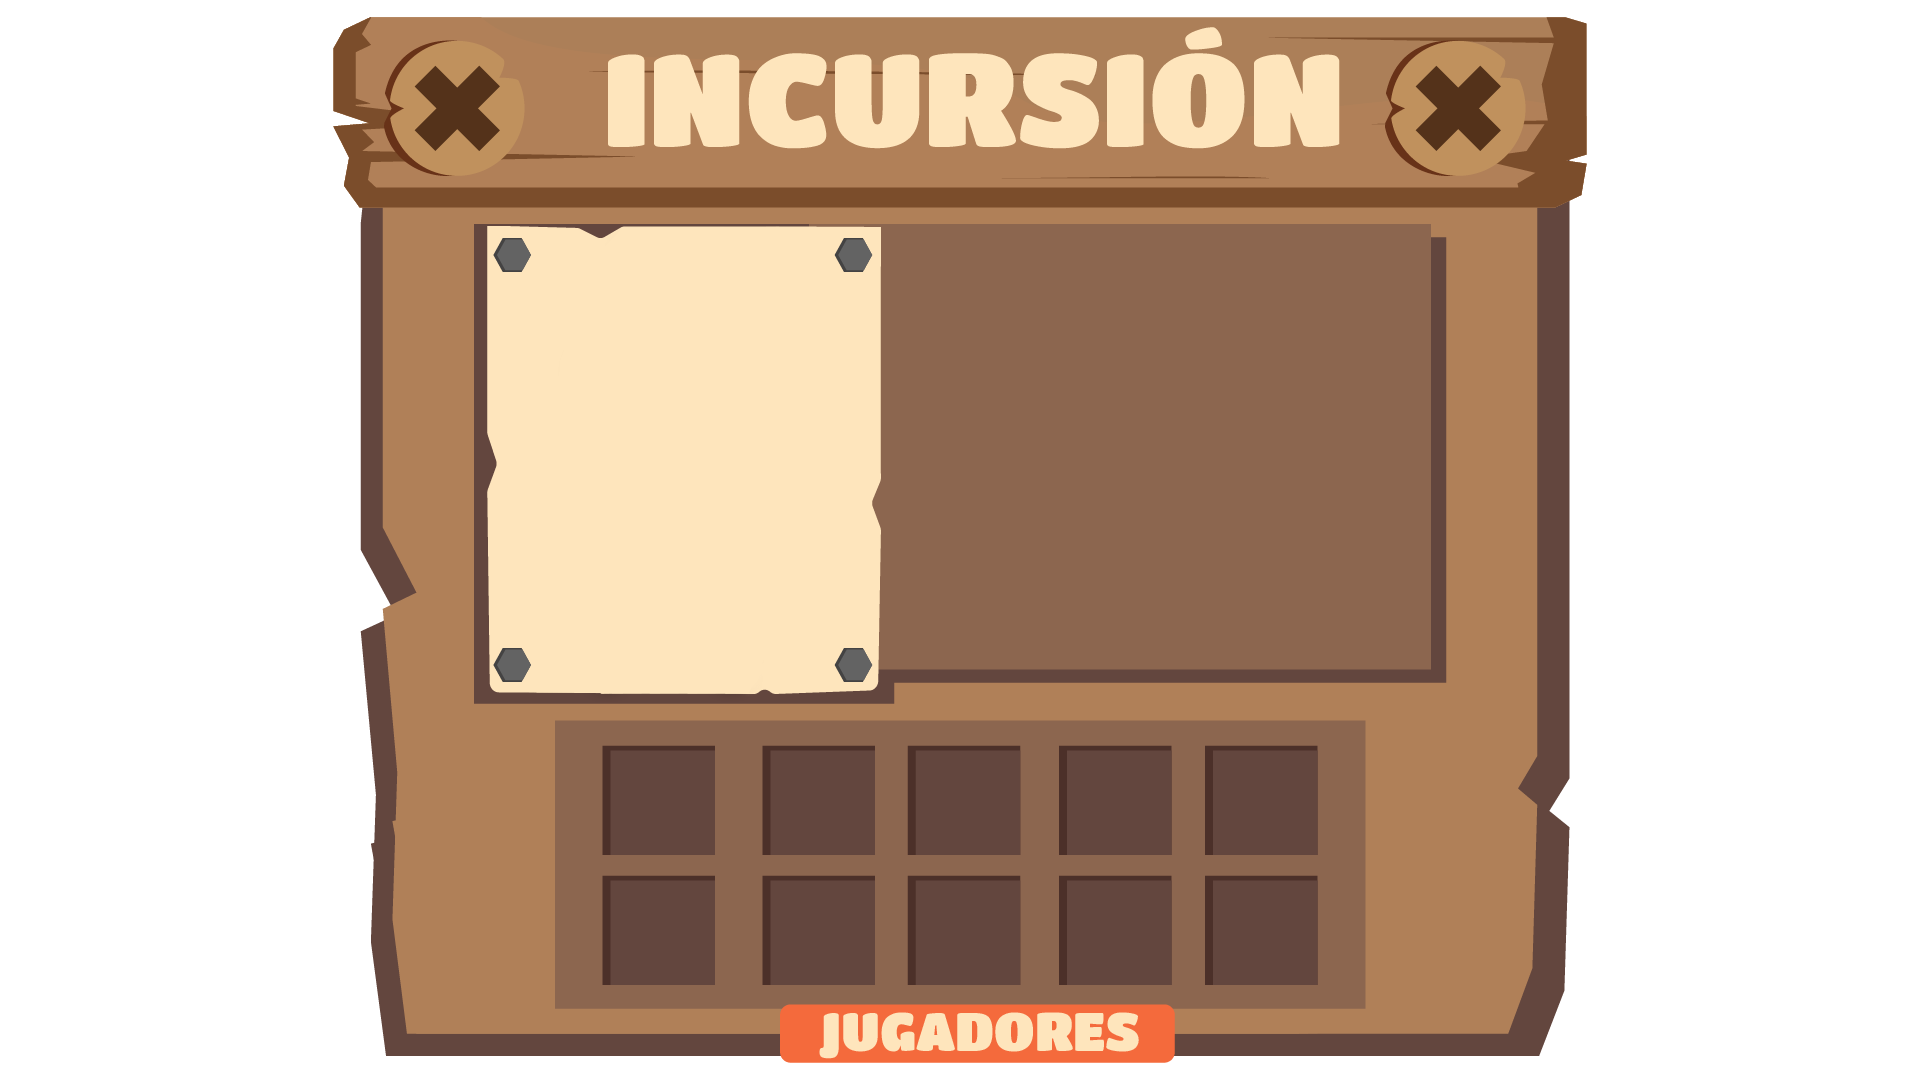
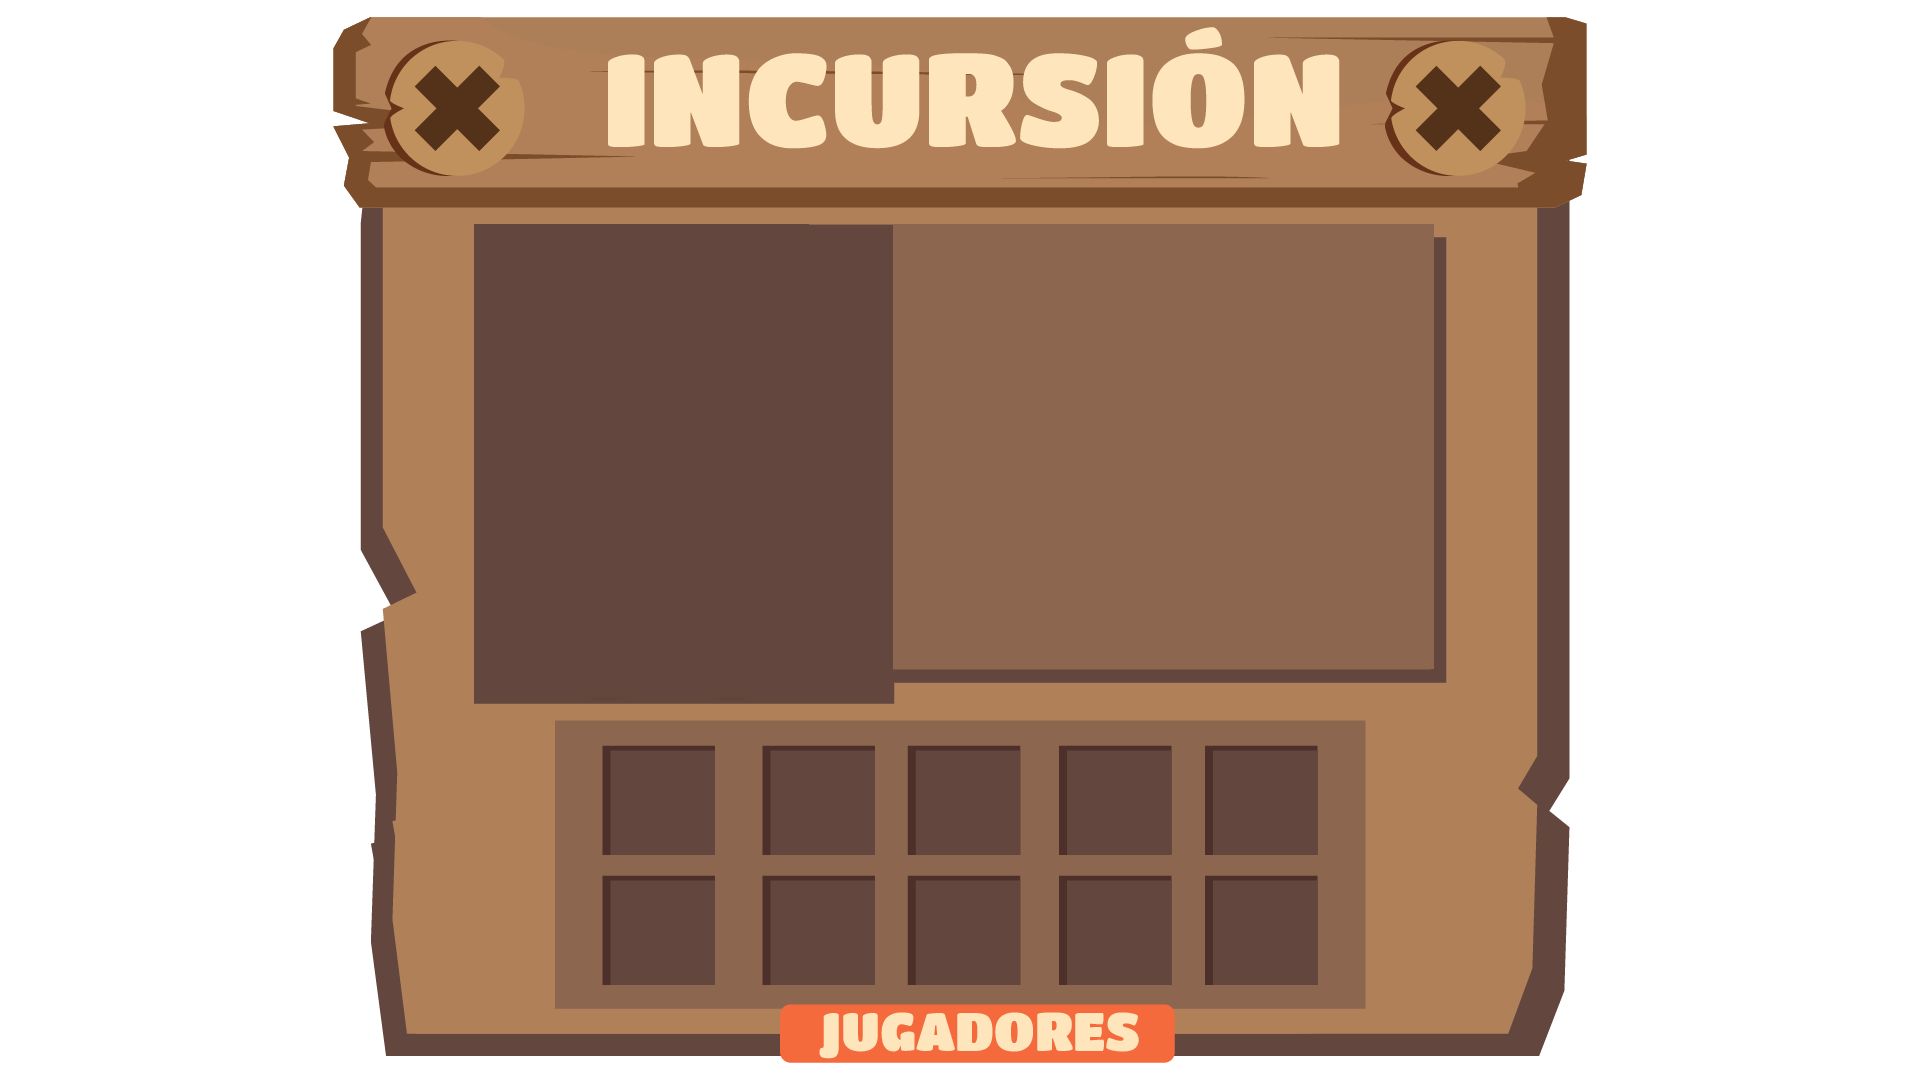
Display player's info in incursion

Changed region(s): [[0.25, 0.1833, 0.4688, 0.6417]]

diff --git a/Scenes/ColiseoScene.js b/Scenes/ColiseoScene.js
@@ -34,6 +34,7 @@ export class Coliseo extends Phaser.Scene{
         this.load.image("QmbMS3P3gn2yivKDFvHSxYjVZEZrBdxyZtnnnJ62tVuSVk", "../src/images/Burritos/Burrito Agua.png");
         this.textures.remove("cards")
         this.load.spritesheet("cards", "../src/images/Cards/cards.png", {frameWidth: 1080, frameHeight: 1080});
+        this.load.image("burrito_muerto", "../src/images/Establo/gravestone.png");
         this.load.image("left_arrow", "../src/images/Establo/left_arrow.png");
         this.load.image("right_arrow", "../src/images/Establo/right_arrow.png");
 
@@ -44,38 +45,49 @@ export class Coliseo extends Phaser.Scene{
 
     async create(){
         this.incursion = await Near.GetActiveIncursion();
+        this.add.image(this.game.config.width / 2, this.game.config.height / 2, `coliseo_${this.incursion.status}`);
         let isIncursion = this.incursion.status == "WaitingPlayers";
-        console.log(this.incursion)
-        this.add.image(this.game.config.width / 2, this.game.config.height / 2, `coliseo_${this.incursion.status}`)
-        new Helpers.Button(this.game.config.width / 2, this.game.config.height / 2 + 400, 1, "buttonContainer", isIncursion ? "Unirse a la incursion" : "Iniciar Incursion", this, isIncursion ? this.JoinIncursion : this.ConfirmIncursion, null, {fontSize: 40, fontFamily: "BangersRegular"})
+        console.log(this.incursion);
         new Helpers.Button(this.sys.game.scale.gameSize.width / 2 + 750,  100, 0.5, "buttonContainer", "Pradera", this, this.BackToPradera, null, {fontSize: 30, fontFamily: "BangersRegular"});
-        //let result = await Near.WithdrawBurritoOwner();
+        new Helpers.Button(this.sys.game.scale.gameSize.width / 2 - 750,  100, 0.5, "buttonContainer", "Eliminar incursion", this, 
+        async()=>{ 
+            this.loadingScreen = new Helpers.LoadingScreen(this);
+            await Near.WithdrawBurritoOwner(); 
+            await Near.DeleteAllIncursions(); 
+            await this.loadingScreen.OnComplete();
+            location.reload();
+        }
+        , null, {fontSize: 30, fontFamily: "BangersRegular"});
+        
+        if(!isIncursion)
+            new Helpers.Button(this.game.config.width / 2, this.game.config.height / 2 + 400, 1, "buttonContainer", "Iniciar Incursion", this, this.ConfirmIncursion, null, {fontSize: 40, fontFamily: "BangersRegular"})
+        else
+            this.CreatePanelIncursion();
+        //await Near.WithdrawBurritoOwner();
         await this.loadingScreen.OnComplete();
-
-        this.CreatePanelIncursion();
     }
-    BackToPradera = () =>{
-        this.scene.start("Pradera");
+    BackToPradera = () =>{ 
+        clearInterval(this.counterInterval); 
+        this.scene.start("Pradera"); 
     }
-    
     ConfirmIncursion = async() => {
         await Helpers.Alert.Fire(this, this.game.config.width / 2, this.game.config.height / 2, "Iniciar nueva incursion", "Una incursion en un evento donde los jugadores pueden unirse para combatir a un burrito de mayor poder y ganar recompensas.\n¿Quieres iniciar una nueva incursion?", "Iniciar Incursion", "Cancelar")
         .then(async (result) =>{ 
             if(result){
-                let incursion = await Near.CreateIncursion();
-                console.log(incursion);
-            } 
+                this.loadingScreen = new Helpers.LoadingScreen(this);
+                await Near.CreateIncursion();
+                await this.loadingScreen.OnComplete();
+                location.reload();
+            }
         });
     }
-    JoinIncursion = async()=>{
+    /*JoinIncursion = async()=>{
         await Helpers.Alert.Fire(this, this.game.config.width / 2, this.game.config.height / 2, "Unirte a la incursion", "Una incursion en un evento donde los jugadores pueden unirse para combatir a un burrito de mayor poder y ganar recompensas.\n¿Quieres unirte a la incursion?", "Unirse", "Cancelar")
         .then(async (result) =>{ 
-            if(result){
-                //let incursion = await Near.DeleteAllIncursions();
+            if(result)
                 this.CreatePanelIncursion();
-            } 
         });
-    }
+    }*/
     async CreatePanel(){
         this.totalTokens = await Near.NFTSupplyForOwner();
         this.panelContainer = this.add.container(this.game.config.width / 2, this.game.config.height / 2);
@@ -85,11 +97,6 @@ export class Coliseo extends Phaser.Scene{
         this.SpawnCards();
     }
     SpawnCards = async() => {
-        if(this.incursion.players.filter((e) => e.burrito_owner === Near.GetAccountId()).length > 0){
-            console.log("Ya tienes un burrito en la incursion");
-        } else{
-            console.log("Si puedes participar en la incursion"); 
-        }
         this.cards = [];
         let burritos = await Near.NFTTokensForOwner(0 + 6 * this.counter, 6);
         burritos.forEach((burrito, index) => {
@@ -102,12 +109,11 @@ export class Coliseo extends Phaser.Scene{
         await Helpers.Alert.Fire(this, this.game.config.width / 2, this.game.config.height / 2, "Usar este burrito", `¿Quieres usar este burrito para la incursion? `, "Seleccionar", "Cancelar")
         .then(async(result) =>{ 
             if(result){
-                //this.incursion.players.push(burrito.token_id);
-                //console.log(this.incursion);
                 let result = await Near.RegisterInIncursion(burrito.token_id);
-                let incursion = await Near.GetActiveIncursion();
+                this.incursion = await Near.GetActiveIncursion();
+                //console.log(this.incursion);
                 this.panelContainer.destroy();
-                //this.CreatePanelIncursion();
+                this.CreatePanelIncursion();
             }
         });
     }
@@ -124,37 +130,56 @@ export class Coliseo extends Phaser.Scene{
     }
     CreatePanelIncursion(){
         let mega = this.incursion.mega_burrito;
-        mega.name = "Mictlantecuhtli";
         mega.hp = mega.win = mega.attack = mega.defense = mega.level = mega.speed = "?";
         mega.cards = "mega_cards"
         console.log(mega)
         let incursionContainer = this.add.container(this.game.config.width / 2, this.game.config.height / 2);
         incursionContainer.add(this.add.image(0, 0, "informacion_incursion"));
-        new Helpers.Card(this.game.config.width / 2 - 280, this.game.config.height/2 - 100, mega, this, false, false, false, false).setScale(.45)
-        incursionContainer.add(new Helpers.Button(210, 75, 0.5, "buttonContainer", "Seleccionar un burrito", this, ()=>{ this.CreatePanel() }, null, {fontSize: 24, fontFamily: "BangersRegular"}).GetComponents())
-        incursionContainer.add(this.countDownText = this.add.text(210, -100, "", {fontSize: 40, fontFamily: "BangersRegular"}).setOrigin(0.5));
-        let result = this.incursion.start_time.toString();
-        let time = result == 0 ? result : parseInt(result.substring(0, result.length - 6));
+        incursionContainer.add(new Helpers.Card(- 280, - 100, mega, this, false, false, false, false).setScale(.45).GetComponents());
+        incursionContainer.add(this.countDownText = this.add.text(200, -200, "", {fontSize: 45, fontFamily: "BangersRegular", align: "center"}).setOrigin(0.5));
+        if(this.incursion.players.filter((e) => e.burrito_owner === Near.GetAccountId()).length == 0){
+            incursionContainer.add(new Helpers.Button(200, 0, 0.5, "buttonContainer", "Seleccionar un burrito", this, 
+            ()=>{
+                clearInterval(this.counterInterval); 
+                incursionContainer.destroy(); 
+                this.CreatePanel() 
+            }, null, {fontSize: 24, fontFamily: "BangersRegular"}).GetComponents());
+        } else{
+            incursionContainer.add(this.add.text(200, 0, "Ya estas registrado en la incursion\nEspera a que inicie!!", {fontSize: 30, fontFamily: "BangersRegular", align: "center"}).setOrigin(0.5));
+        }
 
-        let playersTest = [
-            { burrito_id: "18", burrito_owner: "algunNombre.testnet" },
-            { burrito_id: "19", burrito_owner: "algunNombre.testnet" },
-            { burrito_id: "17", burrito_owner: "algunNombre.testnet" },
-            { burrito_id: "6", burrito_owner: "algunNombre.testnet" },
-            { burrito_id: "15", burrito_owner: "algunNombre.testnet" },
-            { burrito_id: "1", burrito_owner: "algunNombre.testnet" },
-            { burrito_id: "31", burrito_owner: "algunNombre.testnet" },
-            { burrito_id: "31", burrito_owner: "algunNombre.testnet" },
-        ];
+        /*let playersTest = [
+            { burrito_id: "18", burrito_owner: "algunNombre1.testnet" },
+            { burrito_id: "19", burrito_owner: "algunNombre2.testnet" },
+            { burrito_id: "17", burrito_owner: "algunNombre3.testnet" },
+            { burrito_id: "6", burrito_owner: "algunNombre4.testnet" },
+            { burrito_id: "15", burrito_owner: "algunNombre5.testnet" },
+            { burrito_id: "1", burrito_owner: "algunNombre6.testnet" },
+            { burrito_id: "31", burrito_owner: "algunNombre7.testnet" },
+            { burrito_id: "31", burrito_owner: "algunNombre8.testnet" },
+        ];*/
+        let playersTest = this.incursion.players;
         playersTest.forEach(async(player, i) => {
             let burrito = await Near.GetNFTToken(player.burrito_id);
-            incursionContainer.add(this.add.sprite(-300+ (150 * (i % 5)), 265 + (130 * Math.floor(i / 5)), "burritos_heads", this.burritoMediaToSkinHead(burrito.media)).setOrigin(0.5).setScale(0.55).setInteractive().on("pointerdown", ()=>{this.ShowCard(burrito)}));
-        });
+            let ownerOffset = {x: 0, y:35}
+            incursionContainer.add(this.add.sprite(-300+ (150 * (i % 5)), 265 + (130 * Math.floor(i / 5)), "burritos_heads", this.burritoMediaToSkinHead(burrito.media))
+            .setOrigin(0.5).setScale(0.55).setInteractive()
+            .on("pointerdown", ()=>{this.ShowCard(burrito)})
+            .on("pointerover", (pointer)=>{ 
+                if(this.canInteract){
+                    incursionContainer.add(this.playerNameText = this.add.text((pointer.worldX + ownerOffset.x) - this.game.config.width/2, (pointer.worldY + ownerOffset.y) - this.game.config.height/2, player.burrito_owner, {fontSize: 18, fontFamily: "BangersRegular", align: "center", strokeThickness:5, stroke: "#000"}).setOrigin(0.5));
+                }
+            })
+            .on("pointermove", (pointer) => { this.playerNameText?.setPosition((pointer.worldX + ownerOffset.x) - this.game.config.width/2, (pointer.worldY + ownerOffset.y) - this.game.config.height/2)})
+            .on("pointerout", ()=>{this.playerNameText?.destroy();})
+        );});
         
-        setInterval(() => {this.Contdown(time) }, 1000);
+        let result = this.incursion.start_time.toString();
+        this.counterInterval = setInterval(() => {this.Contdown(result == 0 ? result : parseInt(result.substring(0, result.length - 6))) }, 1000);
     }
     ShowCard(burrito){
         if(this.canInteract){
+            this.playerNameText?.destroy();
             let bigCard = new Helpers.Card(this.game.config.width / 2, this.game.config.height / 2, burrito, this, false, false, false, false)
             this.cerrarBtn = this.add.image(this.game.config.width / 2 + 350, this.game.config.height / 2 - 400, "cerrar").setScale(0.25).setInteractive()
             .on("pointerdown", () =>{
@@ -173,7 +198,7 @@ export class Coliseo extends Phaser.Scene{
         let seconds = (minutes % 1) * 60;
         if(remainToBuy != 0){
             this.contdown = true;
-            this.countDownText.setText(`La incursion inicia \nen ${parseInt(hour).toString().padStart(2, '0')}:${parseInt(minutes).toString().padStart(2, '0')}:${parseInt(seconds).toString().padStart(2, '0')}`);
+            this.countDownText?.setText(`La incursion inicia en:\n${parseInt(hour).toString().padStart(2, '0')}:${parseInt(minutes).toString().padStart(2, '0')}:${parseInt(seconds).toString().padStart(2, '0')}`);
         } else if(this.contdown)
             location.reload();
     }

diff --git a/src/Helpers/Helpers.js b/src/Helpers/Helpers.js
@@ -89,31 +89,31 @@ export class Card{
         if(this.Active)
             this.burritoImg.setScale(.4);
 
-        this.cardResult.add(this.levelText = scene.add.text(-300, - 400, burrito.level, { fontSize: 90, fontFamily: "BangersRegular", stroke: 0x000000, strokeThickness: 5 }).setOrigin(0.3, 0));//level
+        this.cardResult.add(this.levelText = scene.add.text(-275, - 400, burrito.level, { fontSize: 90, fontFamily: "BangersRegular", stroke: 0x000000, strokeThickness: 5, align: "center" }).setOrigin(0.5, 0));//level
         this.cardResult.add(scene.add.text(-180, - 380, burrito.name.split("#", 1), { fontSize: 60, fontFamily: "BangersRegular", stroke: 0x000000, strokeThickness: 5 }).setOrigin(-0.02, 0));//name
 
         if(displayOverIcons){
             this.cardResult.add(this.Level = scene.add.sprite(325, -150, "level", Math.round((burrito.win / 10) * 24)));
             scene.anims.create({ key: "resetLevel", frames: scene.anims.generateFrameNumbers("level", { frames: [24,23,22,21,20,19,18,17,16,15,14,13,12,11,10,9,8,7,6,5,4,3,2,1,0]}), frameRate: 24, repeat: 0 });
         }
-        this.cardResult.add(this.winsText = scene.add.text(310, - 180, burrito.win, { fontSize: 60, fontFamily: "BangersRegular", stroke: 0x000000, strokeThickness: 5 }).setOrigin(burrito.win < 10 ? 0.1 : 0.25, 0));//wins
+        this.cardResult.add(this.winsText = scene.add.text(325, - 180, burrito.win, { fontSize: 60, fontFamily: "BangersRegular", stroke: 0x000000, strokeThickness: 5, align: "center" }).setOrigin(0.5, 0));//wins
         if(displayOverIcons){
             this.cardResult.add( this.Heart = scene.add.sprite(325,0,"heart", Math.round((burrito.hp / 5) * 24)));
             scene.anims.create({ key: "recoverHealth", frames: scene.anims.generateFrameNumbers("heart", { frames: [0,1,2,3,4,5,6,7,8,9,10,11,12,13,14,15,16,17,18,19,20,21,22,23,24]}), frameRate: 24, repeat: 0 });
         }
-        this.cardResult.add(this.heartText = scene.add.text(310, - 40, burrito.hp, { fontSize: 60, fontFamily: "BangersRegular", stroke: 0x000000, strokeThickness: 5 }).setOrigin(0.1, 0));//health
+        this.cardResult.add(this.heartText = scene.add.text(325, - 40, burrito.hp, { fontSize: 60, fontFamily: "BangersRegular", stroke: 0x000000, strokeThickness: 5, align: "center" }).setOrigin(0.5, 0));//health
 
-        this.cardResult.add(this.attackText = scene.add.text(-195, 365, burrito.attack, { fontSize: 90, fontFamily: "BangersRegular", stroke: 0x000000, strokeThickness: 5 }).setOrigin(burrito.attack <= 9 ? 0.1 : 0.3, 0));//attack
-        this.cardResult.add(this.defenseText = scene.add.text(0, 320, burrito.defense, { fontSize: 90, fontFamily: "BangersRegular", stroke: 0x000000, strokeThickness: 5 }).setOrigin(burrito.defense <= 9 ? 0.1 : 0.3, 0));//defense
-        this.cardResult.add(this.speedText = scene.add.text(195, 365, burrito.speed, { fontSize: 90, fontFamily: "BangersRegular", stroke: 0x000000, strokeThickness: 5 }).setOrigin(burrito.speed <= 9 ? -0.1 : 0.2, 0));//speed
+        this.cardResult.add(this.attackText = scene.add.text(-175, 365, burrito.attack, { fontSize: 90, fontFamily: "BangersRegular", stroke: 0x000000, strokeThickness: 5, align: "center" }).setOrigin(0.5/*burrito.attack <= 9 ? 0.1 : 0.3*/, 0));//attack
+        this.cardResult.add(this.defenseText = scene.add.text(25, 320, burrito.defense, { fontSize: 90, fontFamily: "BangersRegular", stroke: 0x000000, strokeThickness: 5, align: "center" }).setOrigin(0.5/*burrito.defense <= 9 ? 0.1 : 0.3*/, 0));//defense
+        this.cardResult.add(this.speedText = scene.add.text(225, 365, burrito.speed, { fontSize: 90, fontFamily: "BangersRegular", stroke: 0x000000, strokeThickness: 5, align: "center" }).setOrigin(0.5/*burrito.speed <= 9 ? -0.1 : 0.2*/, 0));//speed
 
         if(localStorage.getItem("burrito_selected") == burrito.token_id && isEstablo && !isBigCard)
             this.cardResult.add(this.selected = scene.add.image(300, -350, "selected").setScale(0.35));
 
         if(interactuable)
             this.card.on('pointerover', this.PointerOver).on("pointerout", this.PointerOut);
-        if(burrito.media != null )
-        this.card.setTint (this.Active? this.enabledColor : this.disabledColor);
+        if(burrito.media != null)
+            this.card.setTint (this.Active? this.enabledColor : this.disabledColor);
     }
     RecoverHealth(newBurrito) {
         this.burritoImg.setTexture("burrito_muerto");

diff --git a/Scenes/MainMenuScene.js b/Scenes/MainMenuScene.js
@@ -13,17 +13,7 @@ class MainMenu extends Phaser.Scene{
         this.load.image("logo1", "../src/images/Logo.png");
         this.load.image("buttonContainer", "../src/images/button.png");
         this.load.image("miniAlert", "../src/images/Informacion_small.png");
-        
-        var vida = 2;
-        vida = this.pakiman(vida);
-        console.log(vida);
     }
-    pakiman(vida)
-{
-    vida = vida + vida;
-    vida++;
-    return vida;
-}
     async create(){
         this.loadingScreen = new Helpers.LoadingScreen(this);
 
@@ -31,18 +21,18 @@ class MainMenu extends Phaser.Scene{
             this.scene.start(localStorage.getItem("lastScene"));
         } else {
             await Near.GetInfoByURL(); 
-                let isInBattle = await Near.IsInBattle();
-                if(isInBattle){
-                    await Helpers.Alert.Fire(this, this.game.config.width / 2, this.game.config.height / 2, "Existe una batalla pendiente", "Hay una batalla en curso y no podras hacer nada mas hasta que finalice la batalla, tambien puedes rendirte pero esto te costara una vida", "Seguir Peleando", "Rendirse\n(Esta desicion le costara una vida a tu burrito!!)")
-                    .then(async (result) =>{ 
-                        if (result)
-                            this.scene.start("Battle");
-                        else{
-                            localStorage.removeItem("burritoCPU");
-                            await Near.SurrenderCpu();
-                        }
-                    });
-                }
+            let isInBattle = await Near.IsInBattle();
+            if(isInBattle){
+                await Helpers.Alert.Fire(this, this.game.config.width / 2, this.game.config.height / 2, "Existe una batalla pendiente", "Hay una batalla en curso y no podras hacer nada mas hasta que finalice la batalla, tambien puedes rendirte pero esto te costara una vida", "Seguir Peleando", "Rendirse\n(Esta desicion le costara una vida a tu burrito!!)")
+                .then(async (result) =>{ 
+                    if (result)
+                        this.scene.start("Battle");
+                    else{
+                        localStorage.removeItem("burritoCPU");
+                        await Near.SurrenderCpu();
+                    }
+                });
+            }
         }
 
         this.add.image(0,0, "mainMenubackground").setOrigin(0);

diff --git a/src/near.js b/src/near.js
@@ -20,7 +20,7 @@ const contract_id_burritos = "dev-1652924595303-59024384289373";
 const contract_id_strw_tokens = "dev-1653415145729-47929415561597";
 const contract_id_items = "dev-1647986467816-61735125036881";
 const contract_id_PVEBattle = "dev-1652376335913-86387308955071";
-const contract_id_incursion = "dev-1656528009468-36867951998801";
+const contract_id_incursion = "dev-1656606254252-10651438211400";
 
 const provider = new providers.JsonRpcProvider(
   "https://archival-rpc.testnet.near.org"
@@ -334,7 +334,7 @@ export async function RegisterInIncursion(token_id, incursion_id = 1){
     );
     return result;
 }
-export async function WithdrawBurritoOwner(){
+export async function WithdrawBurritoOwner(token_id){
     let result = await contract_incursion.withdraw_burrito_owner({}, 300000000000000, "1");
     return result;
 }
